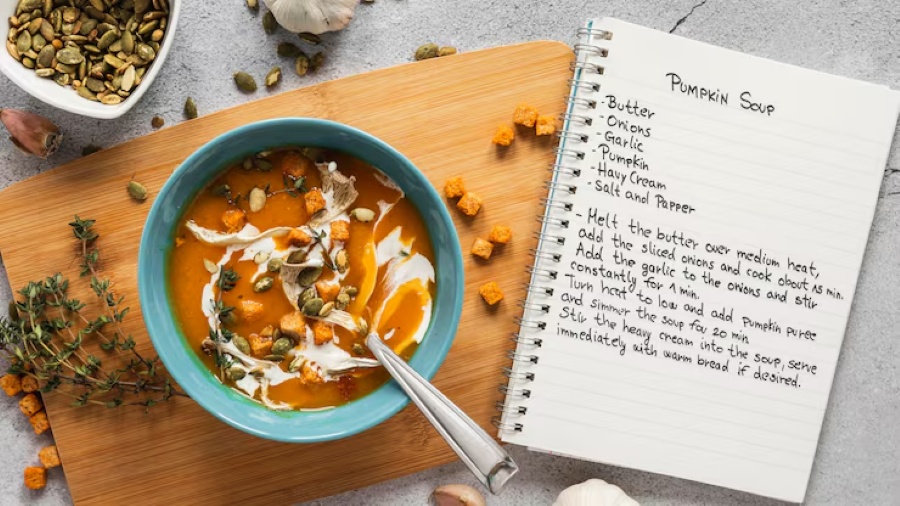
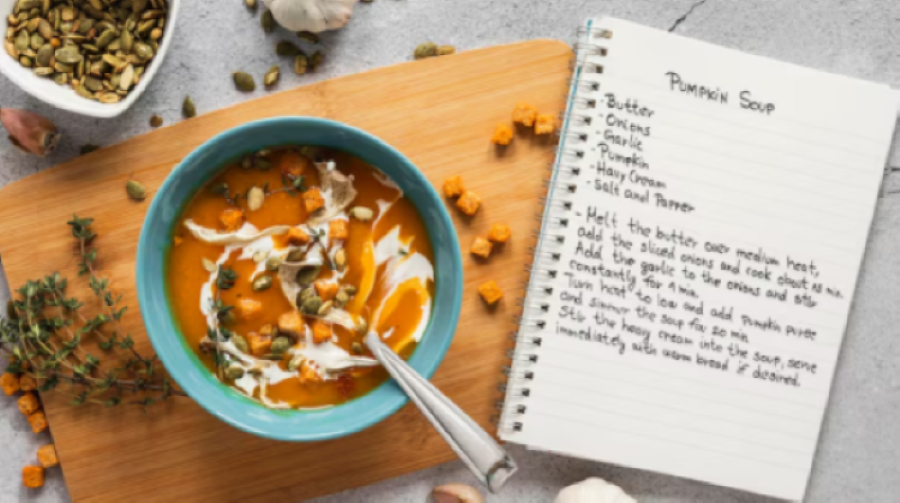
Adiciona borda na imagem inicial e altera margin me divs na home

diff --git a/index.html b/index.html
@@ -22,7 +22,7 @@
     <main>
         <h1>Home</h1>
 
-        <div style="display: flex;align-items: flex-start; gap: 120px">
+        <div style="display: flex;align-items:flex-start; gap: 50px">
             <div>
                 <h2>Bem-vindo a um Site de Receitas Culinárias</h2>
                 <p>Este site apresenta uma variação de receitas simple, práticas e fáceis de preparar. <br>
@@ -44,8 +44,8 @@
                 </ul>
             </div>
 
-            <div  style=" border-radius: 8px; border: 9px black;">
-                <img src="imagens/imagem_inicial.png" alt="">
+            <div  style=" border-radius: 8px; border: 9px black;" style = "margin: 0px; padding-top: 10px;">
+                <img src="imagens/imagem_inicial.png" class="imagem">
             </div>
         </div>
 

diff --git a/styles/home.css b/styles/home.css
@@ -80,3 +80,12 @@ main> h1 {
 main > h2 {
     margin-bottom: 50px;
 }
+
+
+
+.imagem {
+    width:100%;
+    min-width: 600px;
+    border-radius: 10px 8px 10px 4px;
+    border: solid black;
+}
